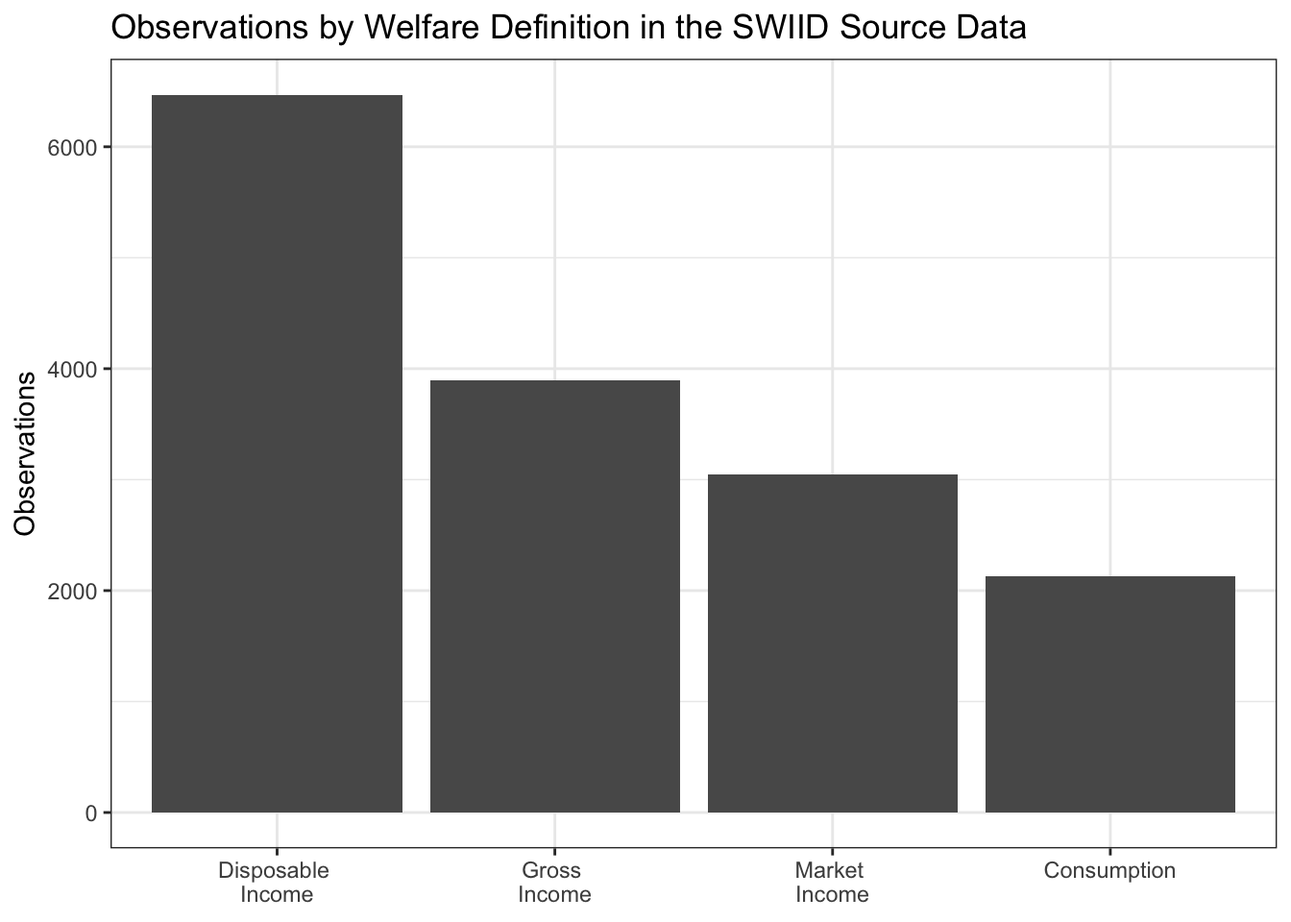
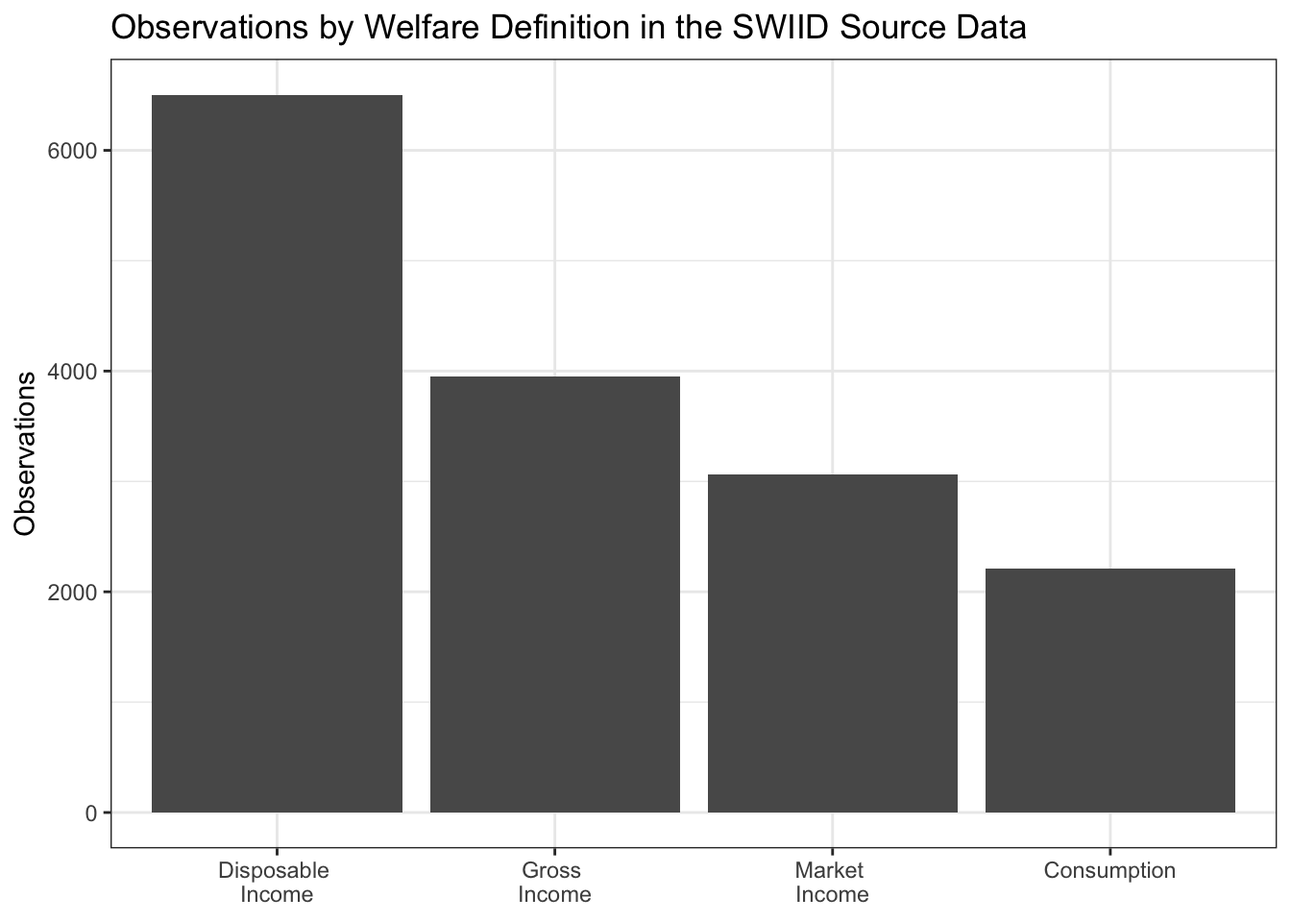
rebuilding site Wed May 22 15:25:24 CDT 2019

diff --git a/blog/index.html b/blog/index.html
@@ -306,7 +306,7 @@ stata(&quot;sum a&quot;, data.in = x)                         </code></pre>
 ## 
 ##     Variable |       Obs        Mean    Std. Dev.       Min        Max
 ## -------------+--------------------------------------------------------
-##            a |         3   -.0353506    .9695783  -1.078846   .8377087</code></pre>
+##            a |         3   -.6565866    .7866709  -1.318591   .2130841</code></pre>
 <pre class="r"><code>## Data output from Stata (e.g., obtain &#39;auto&#39; dataset)
 auto &lt;- stata(&quot;sysuse auto&quot;, data.out = TRUE)</code></pre>
 <pre><code>## . sysuse auto
@@ -345,24 +345,24 @@ stata(&quot;
 ## 
 ##     Variable |       Obs        Mean    Std. Dev.       Min        Max
 ## -------------+--------------------------------------------------------
-##            y |       100   -.0021012    1.098316  -2.508304   2.446293
-##           x1 |       100   -.0263976    1.029658  -2.792088   2.405395
-##           x2 |       100   -.1367376    1.094583  -3.197847   2.892235
+##            y |       100   -.0626177    .9289008  -2.620993   2.256206
+##           x1 |       100   -.0888128    1.006012  -3.000874    2.17022
+##           x2 |       100   -.1824287     1.10352   -3.32491   3.156246
 ## .     reg y x1 x2
 ## 
 ##       Source |       SS       df       MS              Number of obs =     100
-## -------------+------------------------------           F(  2,    97) =    2.32
-##        Model |  5.45117433     2  2.72558717           Prob &gt; F      =  0.1037
-##     Residual |  113.972355    97  1.17497274           R-squared     =  0.0456
-## -------------+------------------------------           Adj R-squared =  0.0260
-##        Total |   119.42353    99  1.20629828           Root MSE      =   1.084
+## -------------+------------------------------           F(  2,    97) =    1.09
+##        Model |  1.88027082     2   .94013541           Prob &gt; F      =  0.3398
+##     Residual |   83.542534    97  .861263237           R-squared     =  0.0220
+## -------------+------------------------------           Adj R-squared =  0.0018
+##        Total |  85.4228048    99  .862856614           Root MSE      =  .92804
 ## 
 ## ------------------------------------------------------------------------------
 ##            y |      Coef.   Std. Err.      t    P&gt;|t|     [95% Conf. Interval]
 ## -------------+----------------------------------------------------------------
-##           x1 |   .0500347   .1061863     0.47   0.639    -.1607156    .2607851
-##           x2 |  -.2131735   .0998879    -2.13   0.035    -.4114233   -.0149237
-##        _cons |  -.0299293   .1092595    -0.27   0.785    -.2467792    .1869207
+##           x1 |    .135174   .0928323     1.46   0.149    -.0490723    .3194204
+##           x2 |   -.027406   .0846295    -0.32   0.747    -.1953722    .1405602
+##        _cons |  -.0556122   .0943723    -0.59   0.557    -.2429152    .1316908
 ## ------------------------------------------------------------------------------
 ## .</code></pre>
 </div>
@@ -500,14 +500,14 @@ stata(&quot;
 <p>This is the first in a series of posts on how I did it. It focuses on an unheralded but foundational part of the SWIID project, the source data. The basic idea behind the SWIID is to start with the data that has been most carefully picked over to ensure its utmost cross-national comparability: the data of the fantastic <a href="http://www.lisdatacenter.org">Luxembourg Income Study</a>. I’ve heard that generating a single country-year of LIS data takes an average of ten person-months of work. <em>That’s</em> dedication to comparability. ❤ But the flipside of maximizing comparability is that the LIS’s coverage is pretty sparse: at last count, it includes just 351 country-years.<a href="#fn3" class="footnote-ref" id="fnref3"><sup>3</sup></a> To address this weakness, the SWIID routine estimates the relationships between Gini indices based on the LIS and all of the other Ginis available for the same country-years, then uses these relationships to estimate what the LIS Gini <em>would be</em> in country-years not included in the LIS but available from other sources.<a href="#fn4" class="footnote-ref" id="fnref4"><sup>4</sup></a> The critical first step to making this work is getting <em>a lot</em> of other, non-LIS Ginis. I call these other Ginis the SWIID’s source data. Over the years, I and my research assistants built up a big spreadsheet of data collected from international organizations, national statistical offices, and scholarly books and articles. But it seemed like whenever I checked over these source data, I would find that at least a few figures had been recently revised, or their source was seemingly no longer available, or (worst of all) they evidently had been entered incorrectly. So again: it’s time to start over from scratch.</p>
 <p>To be included in the SWIID’s source data, observations need to encompass the entire population of a country without regard to age, location,<a href="#fn5" class="footnote-ref" id="fnref5"><sup>5</sup></a> or employment status.<a href="#fn6" class="footnote-ref" id="fnref6"><sup>6</sup></a> They need to have an identifiable welfare definition and equivalence scale (more on these below). Finally, because I want to be able to direct users to sources they can easily peruse themselves, observations need to be available online.<a href="#fn7" class="footnote-ref" id="fnref7"><sup>7</sup></a></p>
 <p>Hand-entering data is tedious and error-prone work, so I <a href="https://github.com/fsolt/swiid/blob/master/R/data_setup.R">automated as much of the process of data collection</a> as practicable. Most international organizations and a few national statistical offices use APIs that facilitate downloading their data, and often the <a href="https://twitter.com/search?q=%23rstats">#rstats</a> community has built R packages using these APIs to make the task even easier. I took as much advantage of these resources as possible.<a href="#fn8" class="footnote-ref" id="fnref8"><sup>8</sup></a> In the absence of an API, I scripted downloads of any available spreadsheets, preferring clean csv files to excel-formatted ones. If there was no spreadsheet, but data were available in pdf files, I automated downloading these files and then used <a href="http://thomasleeper.com">Thomas Leeper</a>’s <a href="https://github.com/ropensci/tabulizer"><code>tabulizer</code> package</a> to read the tables into R. In the absence of a file to download, I scripted the process of scraping the data from the web. Still, for a variety of reasons, a source’s data may have been consigned to being entered in a <a href="https://github.com/fsolt/swiid/raw/master/data-raw/fs_added_data.csv">separate spreadsheet</a>. Many sources contain just a handful or fewer observations, making the payoff to the often laborious process of data cleaning too small to justify the effort. Some sources–including most academic articles–are behind paywalls, making reproducibility a hassle anyway (though I still often used tabulizer to read the data from the pdf before cutting-and-pasting it into the spreadsheet). Finally, at least <a href="https://wdronline.worldbank.org/bitstream/handle/10986/9269/wps4007.pdf?sequence=1">one source</a> contains crucial information encoded in the typeface(!!) of its tables, information lost when the tables are scanned into R. All of the entries in this spreadsheet were checked repeatedly for errors,<a href="#fn9" class="footnote-ref" id="fnref9"><sup>9</sup></a> and I excluded repeated reports of the exact same observation from different sources. In the end, I was able to automate the collection of more than three quarters of the source data and a much higher percentage of the series that will be updated or are subject to revision, facilitating incorporating these changes in future versions.</p>
-<p>The resulting dataset comprises 15549(!) Gini coefficients from 2951 country-years in 196 countries or territories, making the coverage of the SWIID source data broader than that of any other income inequality dataset. This isn’t surprising given that, with the exceptions of the <a href="https://www.wider.unu.edu/database/world-income-inequality-database-wiid4">WIID</a> (which, since it provides no original data, isn’t drawn on at all anymore) and the <a href="https://www.gc.cuny.edu/Page-Elements/Academics-Research-Centers-Initiatives/Centers-and-Institutes/Stone-Center-on-Socio-Economic-Inequality/Core-Faculty,-Team,-and-Affiliated-LIS-Scholars/Branko-Milanovic/Datasets">All the Ginis</a> database (which provides little original data, and so isn’t drawn on much), the SWIID source data incorporates all of the data in these other datasets.</p>
+<p>The resulting dataset comprises 15730(!) Gini coefficients from 2984 country-years in 196 countries or territories, making the coverage of the SWIID source data broader than that of any other income inequality dataset. This isn’t surprising given that, with the exceptions of the <a href="https://www.wider.unu.edu/database/world-income-inequality-database-wiid4">WIID</a> (which, since it provides no original data, isn’t drawn on at all anymore) and the <a href="https://www.gc.cuny.edu/Page-Elements/Academics-Research-Centers-Initiatives/Centers-and-Institutes/Stone-Center-on-Socio-Economic-Inequality/Core-Faculty,-Team,-and-Affiliated-LIS-Scholars/Branko-Milanovic/Datasets">All the Ginis</a> database (which provides little original data, and so isn’t drawn on much), the SWIID source data incorporates all of the data in these other datasets.</p>
 <p><img src="/post/2017-07-28-the-swiid-source-data_files/figure-html/data_by_coverage-1.png" width="672" /></p>
-<p>So, let’s check out what the source data look like. There is much more data available about the income distribution in some countries than in others. Which countries are most data-rich? The plot below shows the top dozen countries by the count of observations. Canada, by virtue of the excellent <a href="http://www.statcan.gc.ca">Statistics Canada</a> as well as longstanding membership in the OECD and LIS, has 736 observations, many more than any other country. The United Kingdom, Germany, and the United States are next, followed by an interesting mix of countries from around the world with not surprisingly a sizable European representation. All are members of the LIS. On the other hand, eleven countries have only a single observation.</p>
+<p>So, let’s check out what the source data look like. There is much more data available about the income distribution in some countries than in others. Which countries are most data-rich? The plot below shows the top dozen countries by the count of observations. Canada, by virtue of the excellent <a href="http://www.statcan.gc.ca">Statistics Canada</a> as well as longstanding membership in the OECD and LIS, has 775 observations, many more than any other country. The United Kingdom, Germany, and the United States are next, followed by an interesting mix of countries from around the world with not surprisingly a sizable European representation. All are members of the LIS. On the other hand, eleven countries have only a single observation.</p>
 <p><img src="/post/2017-07-28-the-swiid-source-data_files/figure-html/obs_by_country-1.png" width="672" /></p>
-<p>As we’ll see in later posts in this series, observations for the same country in the same year, but with different welfare definitions and equivalence scales or from different sources, are important to generating the SWIID’s cross-nationally comparable estimates. Still, we might be interested to know which countries have the most coverage of the years in the SWIID’s current 57-year timeframe, from 1960 to 2017, because the SWIID’s inequality estimates for countries with fewer country-year observations will include more interpolated values, which in turn will have more uncertainty.</p>
+<p>As we’ll see in later posts in this series, observations for the same country in the same year, but with different welfare definitions and equivalence scales or from different sources, are important to generating the SWIID’s cross-nationally comparable estimates. Still, we might be interested to know which countries have the most coverage of the years in the SWIID’s current 58-year timeframe, from 1960 to 2018, because the SWIID’s inequality estimates for countries with fewer country-year observations will include more interpolated values, which in turn will have more uncertainty.</p>
 <p><img src="/post/2017-07-28-the-swiid-source-data_files/figure-html/years_by_country-1.png" width="672" /></p>
 <p>The source data includes observations for Sweden and the United Kingdom in all but one of these years and for the United States in all but five. Iran and Argentina—two countries not included in the LIS—make the top 12, with 43 and 42 country-year observations respectively. The median country has observations in 16 different country-years.</p>
-<p>We can also get a sense of the available inequality data by turning the question around and asking about coverage across countries over time. There are observations for 123 countries in 2005. Coverage is relatively good in the years from 2000 to 2015, at least 80 countries per year, before dropping to 75 countries for 2016 and just 25 for 2017. Country coverage is pretty thin each year through the 1960s and 1970s and still isn’t all that great until the late 1980s.<a href="#fn10" class="footnote-ref" id="fnref10"><sup>10</sup></a></p>
+<p>We can also get a sense of the available inequality data by turning the question around and asking about coverage across countries over time. There are observations for 123 countries in 2005. Coverage is relatively good in the years from 2000 to 2016, at least 80 countries per year, before dropping to 43 countries for 2017 and just 3 for 2018. Country coverage is pretty thin each year through the 1960s and 1970s and still isn’t all that great until the late 1980s.<a href="#fn10" class="footnote-ref" id="fnref10"><sup>10</sup></a></p>
 <p><img src="/post/2017-07-28-the-swiid-source-data_files/figure-html/countries_by_year-1.png" width="672" /></p>
 <p>Earlier I mentioned that to be included in the SWIID source data observations need to have an identifiable welfare definition and equivalence scale. A welfare definition is an answer to the question, this Gini measures the distribution of what? The four welfare definitions employed in the SWIID source data are market income, gross income, disposable income, and consumption. Market income is defined as the amount of money coming into the household, excluding any government cash or near-cash benefits, the so-called ‘pre-tax, pre-transfer income.’<a href="#fn11" class="footnote-ref" id="fnref11"><sup>11</sup></a> Gross income is the sum of market income and government transfer payments; it is ‘pre-tax, post-transfer income.’ Disposable income, in turn, is gross income minus direct taxes: ‘post-tax, post-transfer income.’<a href="#fn12" class="footnote-ref" id="fnref12"><sup>12</sup></a> Consumption does not refer to the money coming into the household at all but rather to the money going out.<a href="#fn13" class="footnote-ref" id="fnref13"><sup>13</sup></a> In the source data, Ginis of disposable income are much more common than those using other welfare definitions.</p>
 <p><img src="/post/2017-07-28-the-swiid-source-data_files/figure-html/obs_by_wd-1.png" width="672" /></p>

diff --git a/blog/2017/07/28/the-swiid-source-data/index.html b/blog/2017/07/28/the-swiid-source-data/index.html
@@ -174,14 +174,14 @@
 <p>This is the first in a series of posts on how I did it. It focuses on an unheralded but foundational part of the SWIID project, the source data. The basic idea behind the SWIID is to start with the data that has been most carefully picked over to ensure its utmost cross-national comparability: the data of the fantastic <a href="http://www.lisdatacenter.org">Luxembourg Income Study</a>. I’ve heard that generating a single country-year of LIS data takes an average of ten person-months of work. <em>That’s</em> dedication to comparability. ❤ But the flipside of maximizing comparability is that the LIS’s coverage is pretty sparse: at last count, it includes just 351 country-years.<a href="#fn3" class="footnote-ref" id="fnref3"><sup>3</sup></a> To address this weakness, the SWIID routine estimates the relationships between Gini indices based on the LIS and all of the other Ginis available for the same country-years, then uses these relationships to estimate what the LIS Gini <em>would be</em> in country-years not included in the LIS but available from other sources.<a href="#fn4" class="footnote-ref" id="fnref4"><sup>4</sup></a> The critical first step to making this work is getting <em>a lot</em> of other, non-LIS Ginis. I call these other Ginis the SWIID’s source data. Over the years, I and my research assistants built up a big spreadsheet of data collected from international organizations, national statistical offices, and scholarly books and articles. But it seemed like whenever I checked over these source data, I would find that at least a few figures had been recently revised, or their source was seemingly no longer available, or (worst of all) they evidently had been entered incorrectly. So again: it’s time to start over from scratch.</p>
 <p>To be included in the SWIID’s source data, observations need to encompass the entire population of a country without regard to age, location,<a href="#fn5" class="footnote-ref" id="fnref5"><sup>5</sup></a> or employment status.<a href="#fn6" class="footnote-ref" id="fnref6"><sup>6</sup></a> They need to have an identifiable welfare definition and equivalence scale (more on these below). Finally, because I want to be able to direct users to sources they can easily peruse themselves, observations need to be available online.<a href="#fn7" class="footnote-ref" id="fnref7"><sup>7</sup></a></p>
 <p>Hand-entering data is tedious and error-prone work, so I <a href="https://github.com/fsolt/swiid/blob/master/R/data_setup.R">automated as much of the process of data collection</a> as practicable. Most international organizations and a few national statistical offices use APIs that facilitate downloading their data, and often the <a href="https://twitter.com/search?q=%23rstats">#rstats</a> community has built R packages using these APIs to make the task even easier. I took as much advantage of these resources as possible.<a href="#fn8" class="footnote-ref" id="fnref8"><sup>8</sup></a> In the absence of an API, I scripted downloads of any available spreadsheets, preferring clean csv files to excel-formatted ones. If there was no spreadsheet, but data were available in pdf files, I automated downloading these files and then used <a href="http://thomasleeper.com">Thomas Leeper</a>’s <a href="https://github.com/ropensci/tabulizer"><code>tabulizer</code> package</a> to read the tables into R. In the absence of a file to download, I scripted the process of scraping the data from the web. Still, for a variety of reasons, a source’s data may have been consigned to being entered in a <a href="https://github.com/fsolt/swiid/raw/master/data-raw/fs_added_data.csv">separate spreadsheet</a>. Many sources contain just a handful or fewer observations, making the payoff to the often laborious process of data cleaning too small to justify the effort. Some sources–including most academic articles–are behind paywalls, making reproducibility a hassle anyway (though I still often used tabulizer to read the data from the pdf before cutting-and-pasting it into the spreadsheet). Finally, at least <a href="https://wdronline.worldbank.org/bitstream/handle/10986/9269/wps4007.pdf?sequence=1">one source</a> contains crucial information encoded in the typeface(!!) of its tables, information lost when the tables are scanned into R. All of the entries in this spreadsheet were checked repeatedly for errors,<a href="#fn9" class="footnote-ref" id="fnref9"><sup>9</sup></a> and I excluded repeated reports of the exact same observation from different sources. In the end, I was able to automate the collection of more than three quarters of the source data and a much higher percentage of the series that will be updated or are subject to revision, facilitating incorporating these changes in future versions.</p>
-<p>The resulting dataset comprises 15549(!) Gini coefficients from 2951 country-years in 196 countries or territories, making the coverage of the SWIID source data broader than that of any other income inequality dataset. This isn’t surprising given that, with the exceptions of the <a href="https://www.wider.unu.edu/database/world-income-inequality-database-wiid4">WIID</a> (which, since it provides no original data, isn’t drawn on at all anymore) and the <a href="https://www.gc.cuny.edu/Page-Elements/Academics-Research-Centers-Initiatives/Centers-and-Institutes/Stone-Center-on-Socio-Economic-Inequality/Core-Faculty,-Team,-and-Affiliated-LIS-Scholars/Branko-Milanovic/Datasets">All the Ginis</a> database (which provides little original data, and so isn’t drawn on much), the SWIID source data incorporates all of the data in these other datasets.</p>
+<p>The resulting dataset comprises 15730(!) Gini coefficients from 2984 country-years in 196 countries or territories, making the coverage of the SWIID source data broader than that of any other income inequality dataset. This isn’t surprising given that, with the exceptions of the <a href="https://www.wider.unu.edu/database/world-income-inequality-database-wiid4">WIID</a> (which, since it provides no original data, isn’t drawn on at all anymore) and the <a href="https://www.gc.cuny.edu/Page-Elements/Academics-Research-Centers-Initiatives/Centers-and-Institutes/Stone-Center-on-Socio-Economic-Inequality/Core-Faculty,-Team,-and-Affiliated-LIS-Scholars/Branko-Milanovic/Datasets">All the Ginis</a> database (which provides little original data, and so isn’t drawn on much), the SWIID source data incorporates all of the data in these other datasets.</p>
 <p><img src="/post/2017-07-28-the-swiid-source-data_files/figure-html/data_by_coverage-1.png" width="672" /></p>
-<p>So, let’s check out what the source data look like. There is much more data available about the income distribution in some countries than in others. Which countries are most data-rich? The plot below shows the top dozen countries by the count of observations. Canada, by virtue of the excellent <a href="http://www.statcan.gc.ca">Statistics Canada</a> as well as longstanding membership in the OECD and LIS, has 736 observations, many more than any other country. The United Kingdom, Germany, and the United States are next, followed by an interesting mix of countries from around the world with not surprisingly a sizable European representation. All are members of the LIS. On the other hand, eleven countries have only a single observation.</p>
+<p>So, let’s check out what the source data look like. There is much more data available about the income distribution in some countries than in others. Which countries are most data-rich? The plot below shows the top dozen countries by the count of observations. Canada, by virtue of the excellent <a href="http://www.statcan.gc.ca">Statistics Canada</a> as well as longstanding membership in the OECD and LIS, has 775 observations, many more than any other country. The United Kingdom, Germany, and the United States are next, followed by an interesting mix of countries from around the world with not surprisingly a sizable European representation. All are members of the LIS. On the other hand, eleven countries have only a single observation.</p>
 <p><img src="/post/2017-07-28-the-swiid-source-data_files/figure-html/obs_by_country-1.png" width="672" /></p>
-<p>As we’ll see in later posts in this series, observations for the same country in the same year, but with different welfare definitions and equivalence scales or from different sources, are important to generating the SWIID’s cross-nationally comparable estimates. Still, we might be interested to know which countries have the most coverage of the years in the SWIID’s current 57-year timeframe, from 1960 to 2017, because the SWIID’s inequality estimates for countries with fewer country-year observations will include more interpolated values, which in turn will have more uncertainty.</p>
+<p>As we’ll see in later posts in this series, observations for the same country in the same year, but with different welfare definitions and equivalence scales or from different sources, are important to generating the SWIID’s cross-nationally comparable estimates. Still, we might be interested to know which countries have the most coverage of the years in the SWIID’s current 58-year timeframe, from 1960 to 2018, because the SWIID’s inequality estimates for countries with fewer country-year observations will include more interpolated values, which in turn will have more uncertainty.</p>
 <p><img src="/post/2017-07-28-the-swiid-source-data_files/figure-html/years_by_country-1.png" width="672" /></p>
 <p>The source data includes observations for Sweden and the United Kingdom in all but one of these years and for the United States in all but five. Iran and Argentina—two countries not included in the LIS—make the top 12, with 43 and 42 country-year observations respectively. The median country has observations in 16 different country-years.</p>
-<p>We can also get a sense of the available inequality data by turning the question around and asking about coverage across countries over time. There are observations for 123 countries in 2005. Coverage is relatively good in the years from 2000 to 2015, at least 80 countries per year, before dropping to 75 countries for 2016 and just 25 for 2017. Country coverage is pretty thin each year through the 1960s and 1970s and still isn’t all that great until the late 1980s.<a href="#fn10" class="footnote-ref" id="fnref10"><sup>10</sup></a></p>
+<p>We can also get a sense of the available inequality data by turning the question around and asking about coverage across countries over time. There are observations for 123 countries in 2005. Coverage is relatively good in the years from 2000 to 2016, at least 80 countries per year, before dropping to 43 countries for 2017 and just 3 for 2018. Country coverage is pretty thin each year through the 1960s and 1970s and still isn’t all that great until the late 1980s.<a href="#fn10" class="footnote-ref" id="fnref10"><sup>10</sup></a></p>
 <p><img src="/post/2017-07-28-the-swiid-source-data_files/figure-html/countries_by_year-1.png" width="672" /></p>
 <p>Earlier I mentioned that to be included in the SWIID source data observations need to have an identifiable welfare definition and equivalence scale. A welfare definition is an answer to the question, this Gini measures the distribution of what? The four welfare definitions employed in the SWIID source data are market income, gross income, disposable income, and consumption. Market income is defined as the amount of money coming into the household, excluding any government cash or near-cash benefits, the so-called ‘pre-tax, pre-transfer income.’<a href="#fn11" class="footnote-ref" id="fnref11"><sup>11</sup></a> Gross income is the sum of market income and government transfer payments; it is ‘pre-tax, post-transfer income.’ Disposable income, in turn, is gross income minus direct taxes: ‘post-tax, post-transfer income.’<a href="#fn12" class="footnote-ref" id="fnref12"><sup>12</sup></a> Consumption does not refer to the money coming into the household at all but rather to the money going out.<a href="#fn13" class="footnote-ref" id="fnref13"><sup>13</sup></a> In the source data, Ginis of disposable income are much more common than those using other welfare definitions.</p>
 <p><img src="/post/2017-07-28-the-swiid-source-data_files/figure-html/obs_by_wd-1.png" width="672" /></p>

diff --git a/swiid/index.html b/swiid/index.html
@@ -171,7 +171,7 @@
 
 <p>Cross-national research on the causes and consequences of income inequality has been hindered by the limitations of the existing inequality datasets: greater coverage across countries and over time has been available from these sources only at the cost of significantly reduced comparability across observations.  The goal of the Standardized World Income Inequality Database (SWIID) is to meet the needs of those engaged in broadly cross-national research by maximizing the comparability of income inequality data while maintaining the widest possible coverage across countries and over time.  It incorporates data from the <a href="http://www.oecd.org/social/inequality.htm" rel="self">OECD Income Distribution Database</a>, the <a href="http://www.cedlas.econo.unlp.edu.ar/wp/en/estadisticas/sedlac/" rel="self">Socio-Economic Database for Latin America and the Caribbean</a> generated by CEDLAS and the World Bank, <a href="https://ec.europa.eu/eurostat/" rel="self">Eurostat</a>, the World Bank&rsquo;s <a href="http://iresearch.worldbank.org/PovcalNet/home.aspx" rel="self">PovcalNet</a>, the <a href="http://interwp.cepal.org/sisgen/ConsultaIntegrada.asp?idIndicador=250&idioma=e" rel="self">UN Economic Commission for Latin America and the Caribbean</a>, national statistical offices around the world, and academic studies while minimizing reliance on problematic assumptions by using as much information as possible from proximate years within the same country.  The data collected by the <a href="http://www.lisdatacenter.org/our-data/lis-database/" rel="self">Luxembourg Income Study</a> is employed as the standard.  The SWIID currently incorporates comparable Gini indices of disposable and market income inequality for 196 countries for as many years as possible from 1960 to the present; it also includes information on absolute and relative redistribution.  A full description of the SWIID, the procedure used to generate it, and an assessment of the SWIID&rsquo;s performance in comparison to the available alternatives is presented here:</p>
 
-<p><a href="/papers/solt2019">Solt, Frederick. 2019. &ldquo;Measuring Income Inequality Across Countries and Over Time: The Standardized World Income Inequality Database.&rdquo; SWIID Version 8.0, February 2019.</a></p>
+<p><a href="/papers/solt2019">Solt, Frederick. 2019. &ldquo;Measuring Income Inequality Across Countries and Over Time: The Standardized World Income Inequality Database.&rdquo; SWIID Version 8.1, May 2019.</a></p>
 
 <p>There are two ways of using the SWIID.  To directly compare up to four countries in estimated levels and trends of (a) inequality in disposable (post-tax, post-transfer) income, (b) inequality in market (pre-tax, pre-transfer) income, &#40;c) absolute redistribution (market-income inequality minus net-income inequality), or (d) relative redistribution (market-income inequality minus net-income inequality, divided by market-income inequality), or to compare several of these measures in a single country, use the SWIID web app below.  To use the SWIID in statistical analyses, datasets formatted for use in Stata and R are available for download.</p>
 
@@ -185,7 +185,7 @@
 
 <p>Please cite the SWIID as follows:</p>
 
-<p>Solt, Frederick. 2019. &ldquo;Measuring Income Inequality Across Countries and Over Time: The Standardized World Income Inequality Database.&rdquo; SWIID Version 8.0, February 2019.<br /><a href="/papers/solt2019/solt2019.bib">Download BibTeX citation</a>.</p>
+<p>Solt, Frederick. 2019. &ldquo;Measuring Income Inequality Across Countries and Over Time: The Standardized World Income Inequality Database.&rdquo; SWIID Version 8.1, May 2019.<br /><a href="/papers/solt2019/solt2019.bib">Download BibTeX citation</a>.</p>
 
 </div>
 

diff --git a/blog/2018/08/15/switch-to-r/index.html b/blog/2018/08/15/switch-to-r/index.html
@@ -241,7 +241,7 @@ stata(&quot;sum a&quot;, data.in = x)                         </code></pre>
 ## 
 ##     Variable |       Obs        Mean    Std. Dev.       Min        Max
 ## -------------+--------------------------------------------------------
-##            a |         3   -.0353506    .9695783  -1.078846   .8377087</code></pre>
+##            a |         3   -.6565866    .7866709  -1.318591   .2130841</code></pre>
 <pre class="r"><code>## Data output from Stata (e.g., obtain &#39;auto&#39; dataset)
 auto &lt;- stata(&quot;sysuse auto&quot;, data.out = TRUE)</code></pre>
 <pre><code>## . sysuse auto
@@ -280,24 +280,24 @@ stata(&quot;
 ## 
 ##     Variable |       Obs        Mean    Std. Dev.       Min        Max
 ## -------------+--------------------------------------------------------
-##            y |       100   -.0021012    1.098316  -2.508304   2.446293
-##           x1 |       100   -.0263976    1.029658  -2.792088   2.405395
-##           x2 |       100   -.1367376    1.094583  -3.197847   2.892235
+##            y |       100   -.0626177    .9289008  -2.620993   2.256206
+##           x1 |       100   -.0888128    1.006012  -3.000874    2.17022
+##           x2 |       100   -.1824287     1.10352   -3.32491   3.156246
 ## .     reg y x1 x2
 ## 
 ##       Source |       SS       df       MS              Number of obs =     100
-## -------------+------------------------------           F(  2,    97) =    2.32
-##        Model |  5.45117433     2  2.72558717           Prob &gt; F      =  0.1037
-##     Residual |  113.972355    97  1.17497274           R-squared     =  0.0456
-## -------------+------------------------------           Adj R-squared =  0.0260
-##        Total |   119.42353    99  1.20629828           Root MSE      =   1.084
+## -------------+------------------------------           F(  2,    97) =    1.09
+##        Model |  1.88027082     2   .94013541           Prob &gt; F      =  0.3398
+##     Residual |   83.542534    97  .861263237           R-squared     =  0.0220
+## -------------+------------------------------           Adj R-squared =  0.0018
+##        Total |  85.4228048    99  .862856614           Root MSE      =  .92804
 ## 
 ## ------------------------------------------------------------------------------
 ##            y |      Coef.   Std. Err.      t    P&gt;|t|     [95% Conf. Interval]
 ## -------------+----------------------------------------------------------------
-##           x1 |   .0500347   .1061863     0.47   0.639    -.1607156    .2607851
-##           x2 |  -.2131735   .0998879    -2.13   0.035    -.4114233   -.0149237
-##        _cons |  -.0299293   .1092595    -0.27   0.785    -.2467792    .1869207
+##           x1 |    .135174   .0928323     1.46   0.149    -.0490723    .3194204
+##           x2 |   -.027406   .0846295    -0.32   0.747    -.1953722    .1405602
+##        _cons |  -.0556122   .0943723    -0.59   0.557    -.2429152    .1316908
 ## ------------------------------------------------------------------------------
 ## .</code></pre>
 </div>
